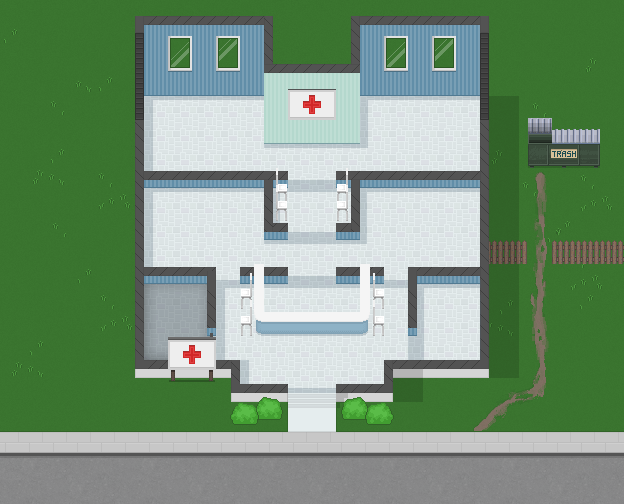
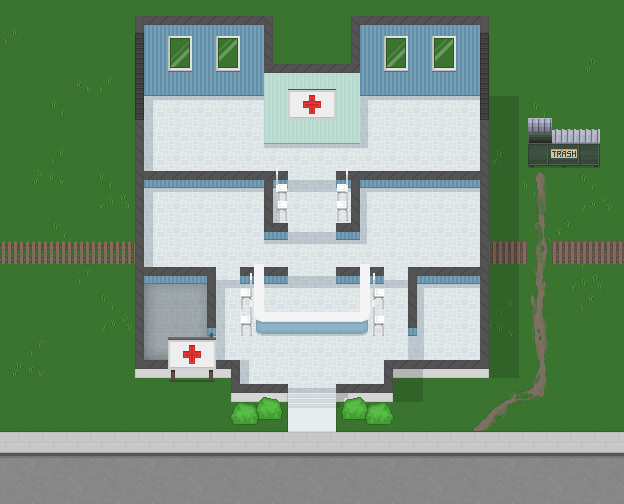
adds fance on other side

Changed region(s): [[0.0, 0.4762, 0.2131, 0.5357]]

diff --git a/src/game/Level.js b/src/game/Level.js
@@ -16,7 +16,7 @@ function Level() {
         + '-----wwwwwww--wwwwwww-p---\n'
         + '-----w-b-b-w--w-b-b-w-----\n'
         + '-----w-b-b-w--w-b-b-w-----\n'
-        + '-----w--------------ww-www\n'
+        + 'wwwwww--------------ww-www\n'
         + '-----wwww-ww--ww-wwww-----\n'
         + '-----w--w-w----w-w--w----\n'
         + '-----w--w-wwwwww-wf-w-----\n'
